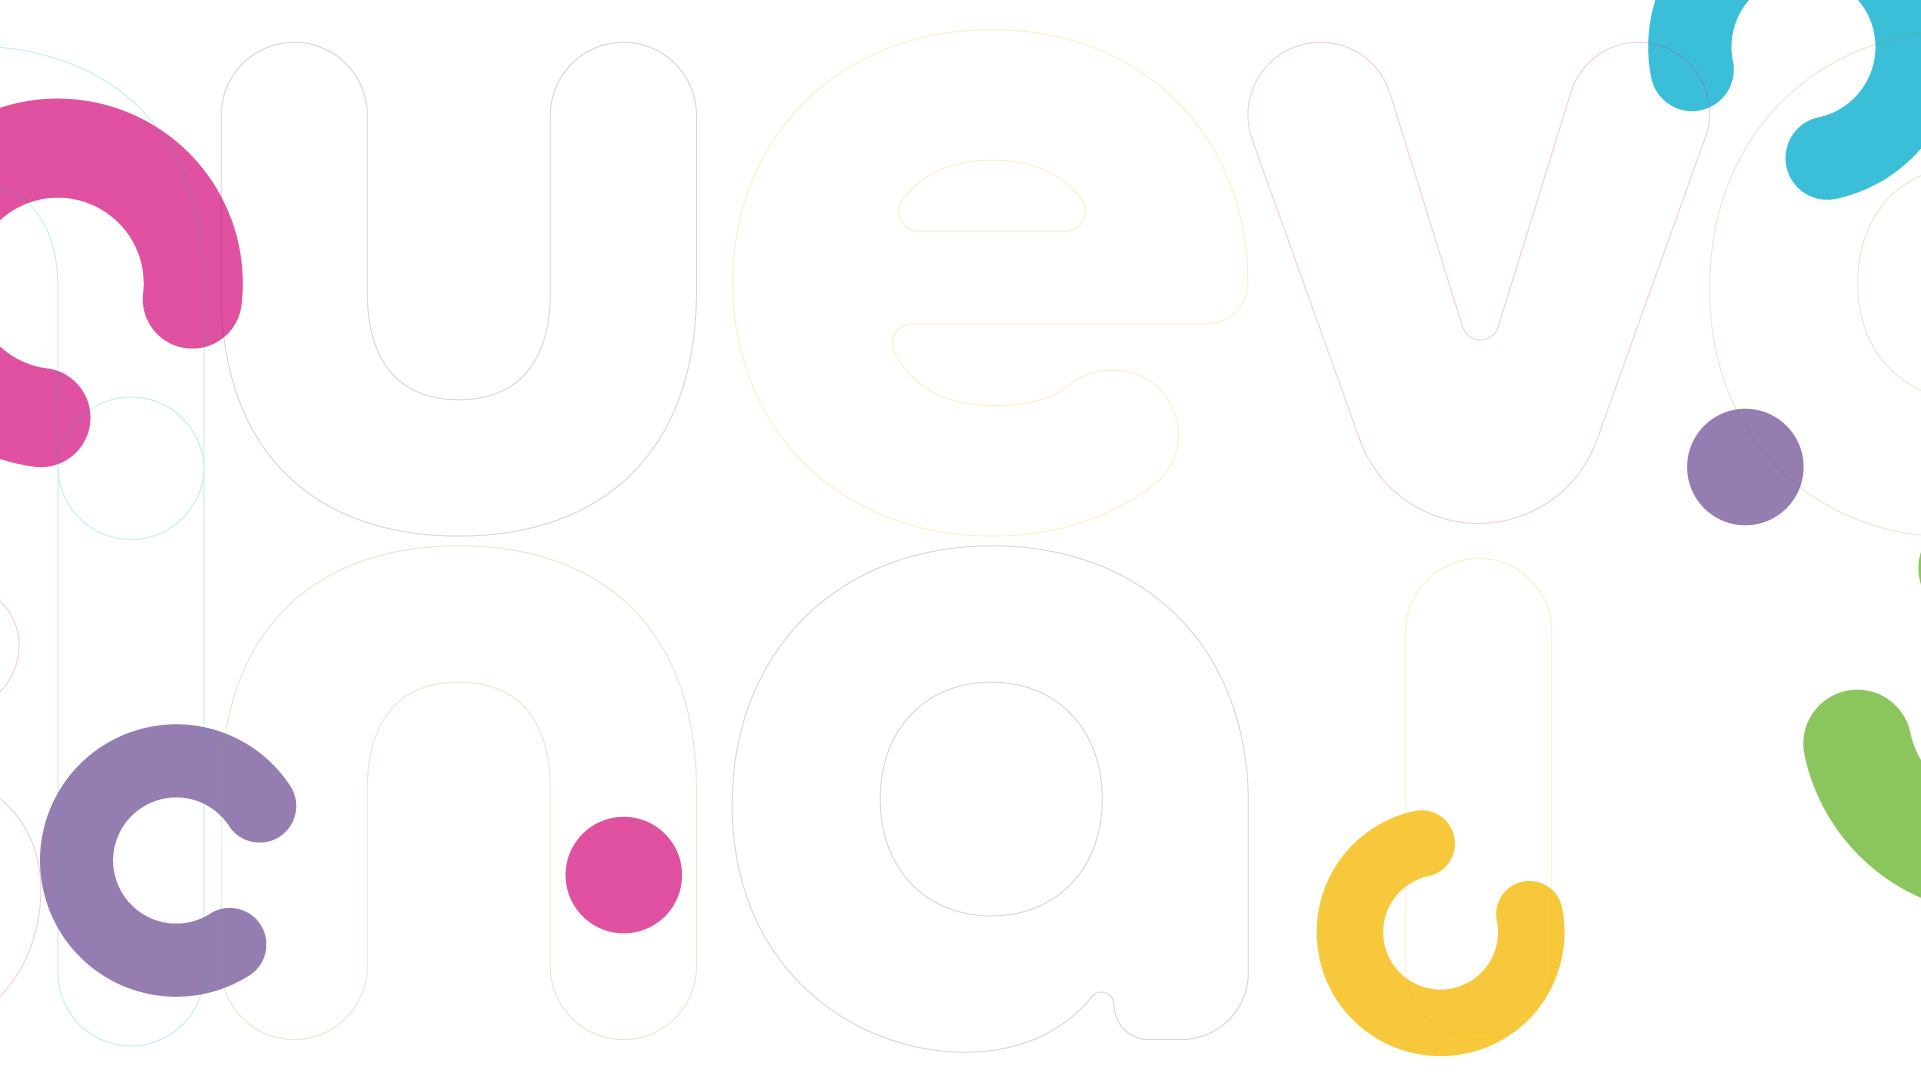
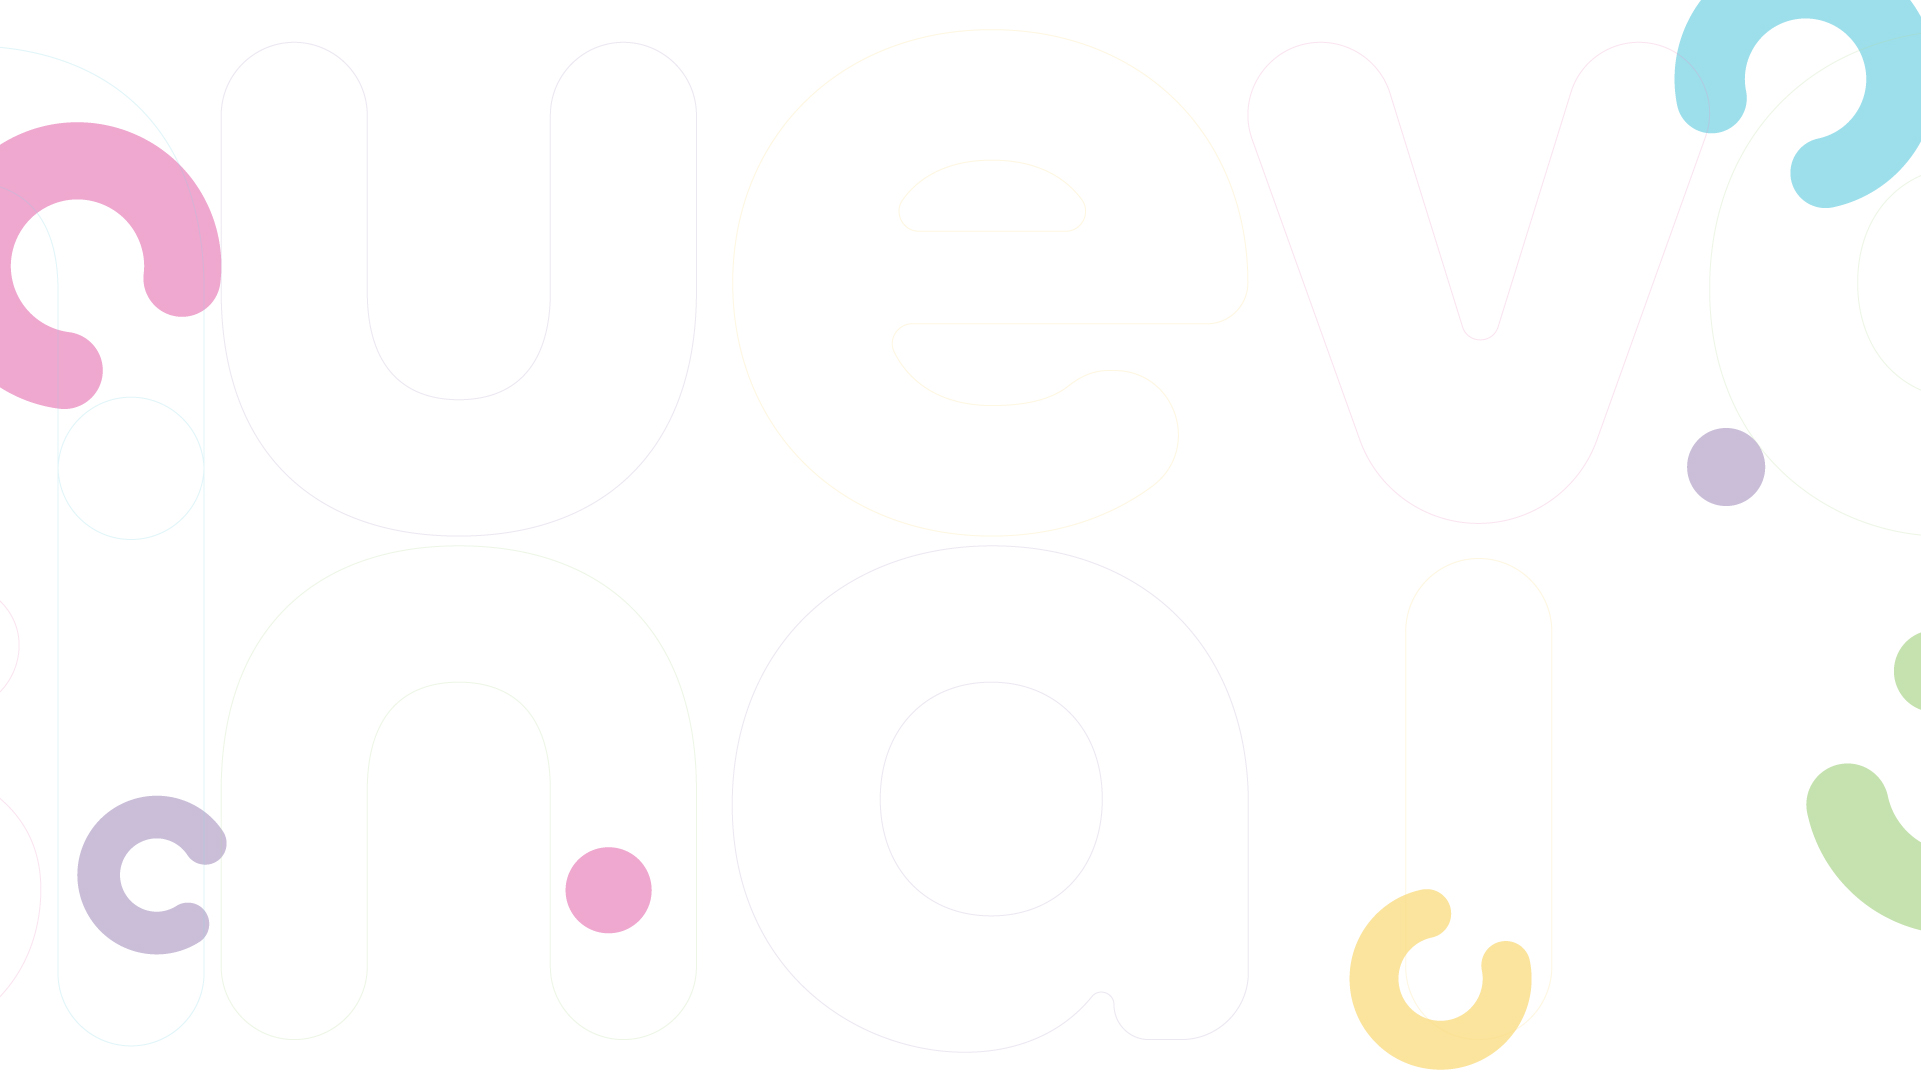
update

diff --git a/Nueva Sinai/style.css b/Nueva Sinai/style.css
@@ -251,6 +251,9 @@ h1 {
 /* RESPONSIVE PARA DESKTOP */
 
 @media screen and (min-width: 600px) {
+    .home {
+        background-image: url(img/bg.jpg);
+    }
     .home>.inner {
         display: grid;
         grid-template-columns: 1fr 1fr;
